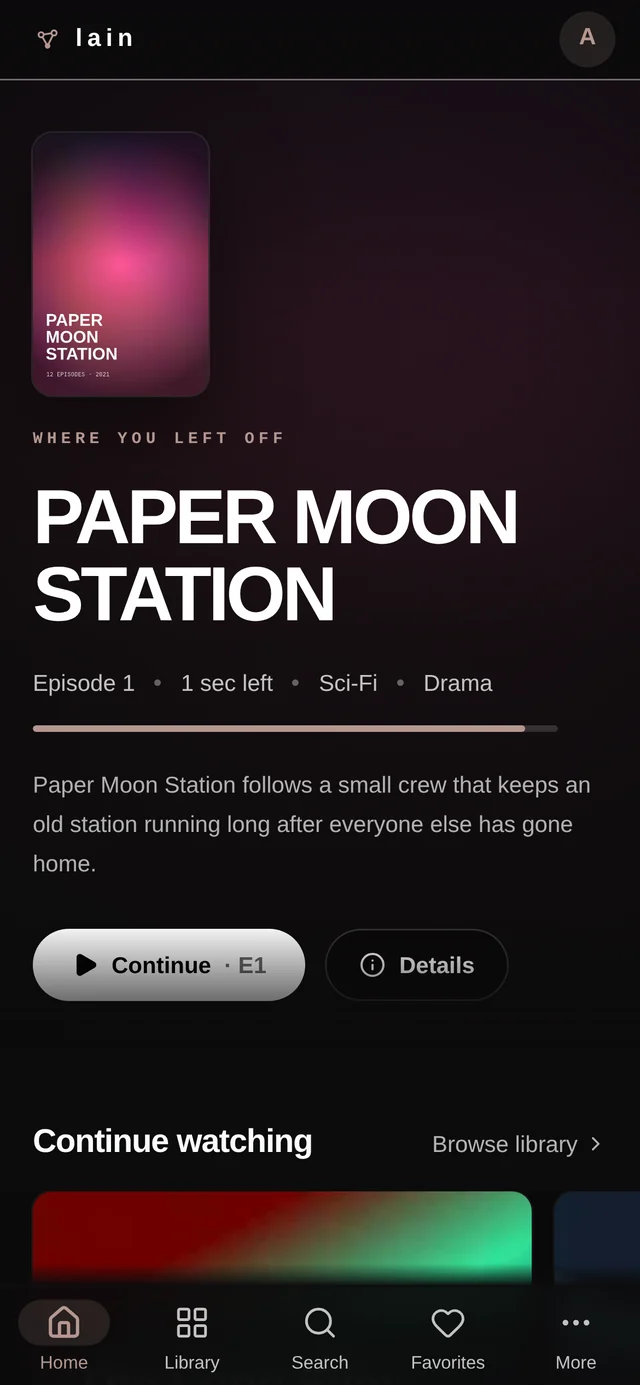
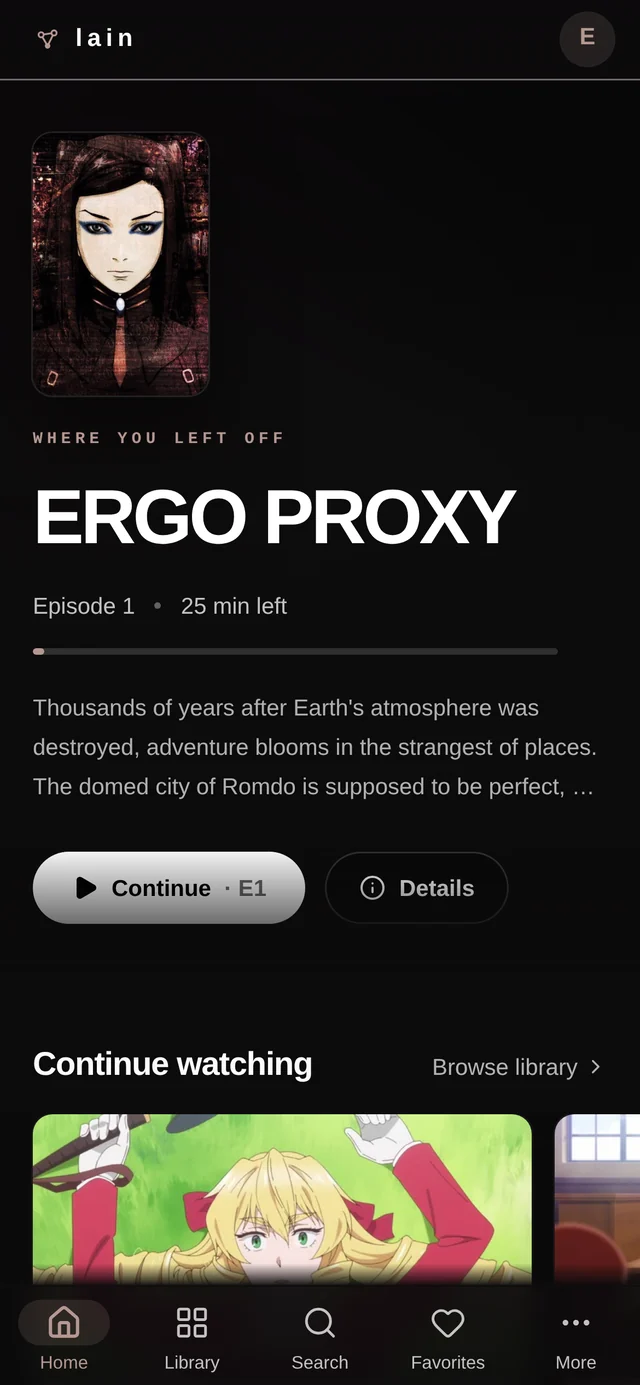
docs: screenshots of a real library
Home, the library, a series page, the player, search and the phone views
now show the author's own anime library instead of generated artwork; the
reader, the settings pages and the Android app keep the demo library. The
tour loses its All titles tab (one public library makes it the same
picture as Library).

diff --git a/site/index.html b/site/index.html
@@ -77,7 +77,7 @@
 				<figure class="frame hero-shot">
 					<img src="assets/shots/home.webp" width="1760" height="1100" alt="lain's Home: a title to resume, then Continue watching and a row per library" fetchpriority="high" />
 				</figure>
-				<p class="note">Every screenshot here is the real client on a demo library of generated artwork.</p>
+				<p class="note">Real screenshots of the client on its author's library. The reader, the settings and the Android app show a demo library.</p>
 			</div>
 		</section>
 
@@ -93,8 +93,7 @@
 				<div class="tour" data-tour>
 					<div class="tabs" role="tablist" aria-label="Screens">
 						<button role="tab" type="button" id="tab-home" aria-selected="true" aria-controls="tour-panel" data-shot="home" data-alt="Home with a title to resume and rows per library" data-cap="Home picks up where you left off, then gives every library its own row of whole titles.">Home</button>
-						<button role="tab" type="button" id="tab-library" aria-selected="false" aria-controls="tour-panel" tabindex="-1" data-shot="library" data-alt="The library, a shelf per library" data-cap="A shelf per library, or every title in one grid. One card frame per grid, sized like Home.">Library</button>
-						<button role="tab" type="button" id="tab-all" aria-selected="false" aria-controls="tour-panel" tabindex="-1" data-shot="library-all" data-alt="All titles with filters for progress, shape, kind and date" data-cap="All titles, with filters that say how many they leave: progress, kind, genre, when it was added.">All titles</button>
+						<button role="tab" type="button" id="tab-library" aria-selected="false" aria-controls="tour-panel" tabindex="-1" data-shot="library" data-alt="A library as a grid of posters, with filters beside it" data-cap="Every title of a library in one calm grid, with filters that say how many they leave: progress, kind, genre, when it was added.">Library</button>
 						<button role="tab" type="button" id="tab-title" aria-selected="false" aria-controls="tour-panel" tabindex="-1" data-shot="title-series" data-alt="A series page with its episodes" data-cap="A title page opens on the episode you are in. Resume names it; your score and downloads sit beside it.">Title</button>
 						<button role="tab" type="button" id="tab-search" aria-selected="false" aria-controls="tour-panel" tabindex="-1" data-shot="search" data-alt="Search results as cards" data-cap="Press / anywhere and type. Results are titles, in the same cards as the library.">Search</button>
 						<button role="tab" type="button" id="tab-settings" aria-selected="false" aria-controls="tour-panel" tabindex="-1" data-shot="settings-transcoding" data-alt="Transcoding settings" data-cap="Settings that fit on a screen: what the probe found on this machine, and who picks the rest.">Settings</button>

diff --git a/README.md b/README.md
@@ -30,20 +30,20 @@ would pick even if it were not yours: titles instead of files, one calm
 grid, and the next thing to watch always one key away. No account, no
 cloud, nothing between you and your files.
 
-> Every screenshot here is the real client on a demo library of generated
-> artwork.
+> Real screenshots of the client on its author's library. The reader and the
+> Android app show a demo library.
 
 ## A look around
 
 | | |
 |:---:|:---:|
-| <img src="site/assets/shots/library-all.webp" alt="All titles with filters" /> | <img src="site/assets/shots/title-series.webp" alt="A series page opened on the episode in progress" /> |
-| **Library.** A shelf per library, or every title in one grid with filters that say how many they leave. | **Title page.** Opens on the episode you are in. Resume names it; your score and downloads sit beside it. |
+| <img src="site/assets/shots/library.webp" alt="A library as a grid of posters, with filters beside it" /> | <img src="site/assets/shots/title-series.webp" alt="A series page opened on the episode in progress" /> |
+| **Library.** Every title in one calm grid, with filters that say how many they leave. | **Title page.** Opens on the episode you are in. Resume names it; your score and downloads sit beside it. |
 | <img src="site/assets/shots/player.webp" alt="The player with the episode list beside the picture" /> | <img src="site/assets/shots/reader.webp" alt="The comic reader" /> |
 | **Player.** Direct play first; a transcode only when it must, on the hardware the machine has. | **Reader.** Comics and manga next to the shows: left to right, right to left or webtoon, with spreads. |
 
 <p align="center">
-  <img src="site/assets/shots/phones.webp" alt="The web client on a phone: Home, a series page, the player and the reader" width="860" />
+  <img src="site/assets/shots/phones.webp" alt="The web client on a phone: Home, a library, a series page and the player" width="860" />
   <br />
   <em>The same web client on a phone.</em>
 </p>
